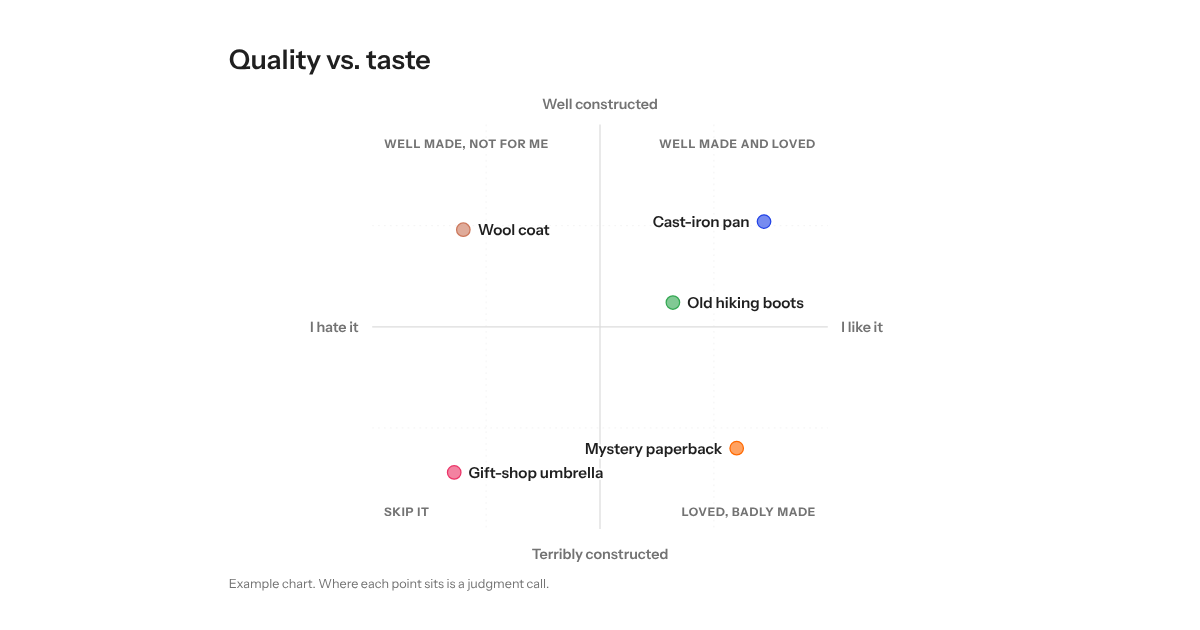
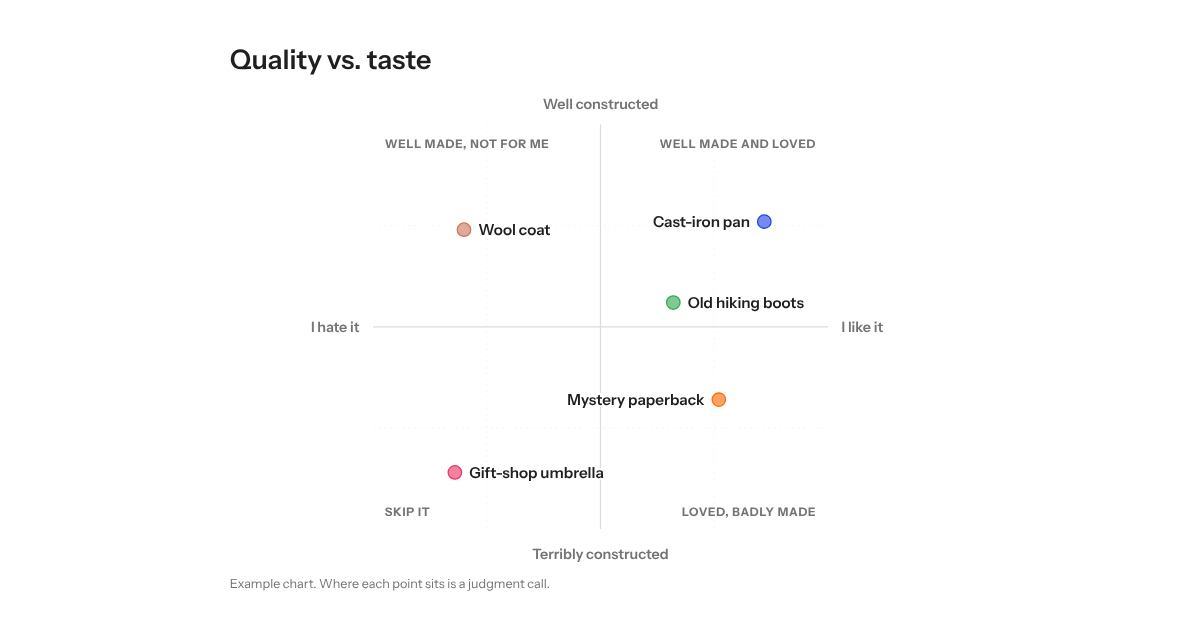
Fix corner name overlap, example label, SVG size, and phone swiping
- Measure letter-spacing when wrapping text, and size phone corner names to fit two per row
- Move the example's "Mystery paperback" so "Gift-shop umbrella" stays on one line
- Request the Instrument Sans weight range so the SVG embeds the font once
- Only the dot and a 20 px touch circle block scrolling; point names let the page scroll
- Touches that start on a name scroll the page and never move the point
- Add phone-width, touch swipe, near-dot click, and paste-setup checks to the smoke tests
- Update README phone instructions and short link; regenerate preview.png

Claude-Session: https://claude.ai/code/session_01JgeXKGiMyeo8k6YKJ5WxKM

diff --git a/tests/smoke.js b/tests/smoke.js
@@ -14,6 +14,8 @@ const PHONE = devices['iPhone 13'];
 const SETUP_X = { title: 'Which of our product bets are worth the next quarter of engineering time and money', note: 'Placement reflects the team workshop held in October; scores are rough, open to debate, and will be revisited after the next planning cycle ends.', axes: { top: 'High customer impact in every segment', bottom: 'Low customer impact', left: 'Hard to build well', right: 'Easy to build well, fast' }, quads: { tl: 'Big bets', tr: 'Quick wins', bl: 'Money pits', br: 'Fill-ins' }, items: [{ name: 'Self-serve onboarding flow', x: 0.73, y: 0.7 }, { name: 'Usage-based billing', x: 0.3, y: 0.3 }] };
 const SETUP_Y = { title: 'Close points', note: '', axes: { top: 'High', bottom: 'Low', left: 'Left', right: 'Right' }, quads: { tl: 'Top left', tr: 'Top right', bl: 'Bottom left', br: 'Bottom right' }, items: [{ name: 'Alpha product line', x: 0.40, y: 0.60 }, { name: 'Beta product line', x: 0.42, y: 0.62 }, { name: 'Gamma', x: 0.43, y: 0.58 }, { name: 'Near the corner', x: 0.05, y: 0.95 }, { name: 'Right edge', x: 0.98, y: 0.5 }] };
 
+const CLOSE_POINTS = '{"title":"Close points","note":"","axes":{"top":"High","bottom":"Low","left":"Left","right":"Right"},"quads":{"tl":"Top left","tr":"Top right","bl":"Bottom left","br":"Bottom right"},"items":[{"name":"Alpha product line","x":0.40,"y":0.60},{"name":"Beta product line","x":0.42,"y":0.62},{"name":"Gamma","x":0.43,"y":0.58}]}';
+
 /* ---------- helpers ---------- */
 
 // Opens the app in a fresh context and waits for the page to settle.
@@ -237,13 +239,15 @@ const checks = [
     return { ok: d.png && d.w === 1920 && d.h === 1400, detail: JSON.stringify(d) };
   }],
 
-  ['SVG download embeds the font', async b => {
+  ['SVG download embeds the font once and is under 90 KB', async b => {
     if (!(await fontsReachable())) return { skip: 'fonts.googleapis.com is not reachable' };
     const c = await open(b, DESK);
     const [dl] = await Promise.all([c.page.waitForEvent('download'), c.page.click('#dl-svg')]);
-    const svg = fs.readFileSync(await dl.path(), 'utf8');
+    const file = await dl.path();
+    const svg = fs.readFileSync(file, 'utf8');
+    const kb = fs.statSync(file).size / 1024;
     await c.context.close();
-    return { ok: svg.includes('@font-face'), detail: '' };
+    return { ok: svg.includes('@font-face') && svg.includes('base64,') && kb < 90, detail: `${kb.toFixed(1)} KB, @font-face ${svg.includes('@font-face')}, base64 ${svg.includes('base64,')}` };
   }],
 
   ['phone: no sideways scroll, name inputs at least 250 px wide', async b => {
@@ -268,6 +272,95 @@ const checks = [
     const y1 = await scrollY(c.page), n1 = await rowCount(c.page);
     await c.context.close();
     return { ok: y1 - y0 > 50 && n1 === n0, detail: `scrollY ${y0} -> ${y1}, rows ${n0} -> ${n1}` };
+  }],
+
+  ['phones 320, 360, 390, 430: no overlaps, no chopped words, every name on one line', async b => {
+    const bad = [];
+    for (const W of [320, 360, 390, 430]) {
+      const c = await open(b, { viewport: { width: W, height: 800 }, isMobile: true, hasTouch: true, deviceScaleFactor: 1 });
+      const p = await textProblems(c.page, true);
+      const w = await choppedWords(c.page);
+      const multi = await c.page.$$eval('#chart svg g.pt', gs => gs.filter(g => g.querySelectorAll('text tspan').length !== 1).map(g => g.getAttribute('aria-label')));
+      await c.context.close();
+      for (const x of [...p, ...w, ...multi.map(n => 'name wraps: ' + n)]) bad.push(`${W} px: ${x}`);
+    }
+    return { ok: bad.length === 0, detail: bad.join(' | ') };
+  }],
+
+  ['iPhone 13: swipe that starts on a point name scrolls the page and moves no point', async b => {
+    const c = await open(b, PHONE);
+    await centerChart(c.page);
+    const pick = await c.page.evaluate(() => {
+      const g = document.querySelector('#chart g.pt');
+      const r = g.querySelector('text').getBoundingClientRect();
+      return { id: g.dataset.id, x: r.left + r.width / 2, y: r.top + r.height / 2, label: g.getAttribute('aria-label') };
+    });
+    const cdp = await c.context.newCDPSession(c.page);
+    const y0 = await scrollY(c.page);
+    await cdp.send('Input.dispatchTouchEvent', { type: 'touchStart', touchPoints: [{ x: pick.x, y: pick.y }] });
+    for (let i = 1; i <= 10; i++) await cdp.send('Input.dispatchTouchEvent', { type: 'touchMove', touchPoints: [{ x: pick.x, y: pick.y - 25 * i }] });
+    await cdp.send('Input.dispatchTouchEvent', { type: 'touchEnd', touchPoints: [] });
+    await c.page.waitForTimeout(400);
+    const y1 = await scrollY(c.page);
+    const after = await c.page.evaluate(id => document.querySelector(`#chart g.pt[data-id="${id}"]`).getAttribute('aria-label'), pick.id);
+    await c.context.close();
+    return { ok: y1 - y0 > 50 && after === pick.label, detail: `scrollY ${y0} -> ${y1}, label "${pick.label}" -> "${after}"` };
+  }],
+
+  ['iPhone 13: swipe that starts on a dot moves its Across value and keeps the page still', async b => {
+    const c = await open(b, PHONE);
+    await centerChart(c.page);
+    const pick = await c.page.evaluate(() => {
+      const d = document.querySelector('#chart circle.dot');
+      const r = d.getBoundingClientRect();
+      return { id: d.closest('g.pt').dataset.id, x: r.left + r.width / 2, y: r.top + r.height / 2, label: d.closest('g.pt').getAttribute('aria-label') };
+    });
+    const across = s => (s.match(/([\d.]+) across/) || [])[1];
+    const cdp = await c.context.newCDPSession(c.page);
+    const y0 = await scrollY(c.page);
+    await cdp.send('Input.dispatchTouchEvent', { type: 'touchStart', touchPoints: [{ x: pick.x, y: pick.y }] });
+    for (let i = 1; i <= 10; i++) await cdp.send('Input.dispatchTouchEvent', { type: 'touchMove', touchPoints: [{ x: pick.x - 6 * i, y: pick.y + 4 * i }] });
+    await cdp.send('Input.dispatchTouchEvent', { type: 'touchEnd', touchPoints: [] });
+    await c.page.waitForTimeout(400);
+    const y1 = await scrollY(c.page);
+    const after = await c.page.evaluate(id => document.querySelector(`#chart g.pt[data-id="${id}"]`).getAttribute('aria-label'), pick.id);
+    await c.context.close();
+    return { ok: across(after) !== across(pick.label) && Math.abs(y1 - y0) <= 2, detail: `across ${across(pick.label)} -> ${across(after)}, scrollY ${y0} -> ${y1}` };
+  }],
+
+  ['desktop: a click about 10 px outside a dot still adds a point', async b => {
+    const c = await open(b, DESK);
+    const spot = await c.page.evaluate(() => {
+      const svg = document.querySelector('#chart svg');
+      const k = svg.getBoundingClientRect().width / svg.viewBox.baseVal.width;   // screen px per chart unit
+      for (const d of document.querySelectorAll('#chart svg circle.dot')) {
+        const r = d.getBoundingClientRect();
+        const cx = r.left + r.width / 2, cy = r.top + r.height / 2;
+        const rad = 8 * k + 10;   // 10 px outside the dot's edge
+        for (let a = 0; a < 360; a += 15) {
+          const x = cx + rad * Math.cos(a * Math.PI / 180), y = cy + rad * Math.sin(a * Math.PI / 180);
+          const el = document.elementFromPoint(x, y);
+          if (el && (el.tagName === 'rect' || el.tagName === 'line') && el.closest('#chart svg')) return { x, y };
+        }
+      }
+      return null;
+    });
+    if (!spot) { await c.context.close(); return { ok: false, detail: 'no empty spot 10 px from a dot' }; }
+    const n0 = await rowCount(c.page);
+    await c.page.mouse.click(spot.x, spot.y);
+    await c.page.waitForTimeout(200);
+    const n1 = await rowCount(c.page);
+    await c.context.close();
+    return { ok: n1 === n0 + 1, detail: `rows ${n0} -> ${n1}` };
+  }],
+
+  ['setup "Close points" from the paste box renders with no errors', async b => {
+    const c = await open(b, DESK);
+    await loadSetup(c.page, CLOSE_POINTS);
+    const n = await rowCount(c.page);
+    const p = await textProblems(c.page, true);
+    await c.context.close();
+    return { ok: c.errors.length === 0 && n === 3 && p.length === 0, detail: [`rows ${n}`, ...c.errors, ...p].join(' | ') };
   }]
 ];
 

diff --git a/Quadrant_Chart_Builder.html b/Quadrant_Chart_Builder.html
@@ -59,7 +59,11 @@
   .chart{overflow-x:auto;-webkit-overflow-scrolling:touch}
   .chart svg{display:block;width:100%;height:auto;min-width:640px;cursor:crosshair;touch-action:pan-y pinch-zoom;user-select:none;-webkit-user-select:none}
   .chart.phone svg{min-width:0}
-  .chart svg g.pt{cursor:grab;outline:none;touch-action:none}
+  .chart svg g.pt{cursor:grab;outline:none}
+  /* only the dot and its touch circle stop scrolling; the name labels let the page scroll */
+  .chart svg .hit,.chart svg .dot{touch-action:none}
+  .chart svg .hit{pointer-events:none}
+  @media (pointer:coarse){.chart svg .hit{pointer-events:auto}}
   .chart svg g.pt:active{cursor:grabbing}
   .chart svg .dot{fill-opacity:.62;transition:fill-opacity .15s}
   .chart svg g.pt:hover .dot{fill-opacity:.88}
@@ -276,7 +280,7 @@
       { name: 'Cast-iron pan', x: 0.86, y: 0.76 },
       { name: 'Wool coat', x: 0.2, y: 0.74 },
       { name: 'Old hiking boots', x: 0.66, y: 0.56 },
-      { name: 'Mystery paperback', x: 0.8, y: 0.2 },
+      { name: 'Mystery paperback', x: 0.76, y: 0.32 },
       { name: 'Gift-shop umbrella', x: 0.18, y: 0.14 }
     ]
   };
@@ -322,15 +326,16 @@
     return w;
   };
   const wrapCache = new Map();
-  function wrap(str, maxW, size, weight, family) {
-    const key = [str, maxW, size, weight, family].join('|');
+  function wrap(str, maxW, size, weight, family, ls = 0) {
+    const key = [str, maxW, size, weight, family, ls].join('|');
     if (wrapCache.has(key)) return wrapCache.get(key);
     const words = String(str ?? '').replace(/\s+/g, ' ').trim().split(' ').filter(Boolean);
     let lines;
     if (!words.length) {
       lines = [''];
     } else {
-      const fits = s => textW(s, size, weight, family) <= maxW;
+      // letter-spacing adds ls px after each letter, so it counts toward the width
+      const fits = s => textW(s, size, weight, family) + ls * s.length <= maxW;
       // a single word wider than the box is broken into pieces that fit
       const pieces = [];
       for (const w of words) {
@@ -497,12 +502,12 @@
 
     /* corner names */
     const corner = (val, ph) => up(shown(val, ph));
-    const Q = phone ? { size: PHONE_T.corner, ls: PHONE_T.cornerLS, w: g.half, d: 12, up: 28, down: 14 } : { size: 14, ls: 0.9, w: 260, d: 14, up: 28, down: 16 };
+    const Q = phone ? { size: PHONE_T.corner, ls: PHONE_T.cornerLS, w: Math.floor((P.x1 - P.x0 - 36) / 2), d: 12, up: 28, down: 14 } : { size: 14, ls: 0.9, w: 250, d: 14, up: 28, down: 16 };
     const QN = { size: Q.size, weight: 700, fill: C.muted, ls: Q.ls };
-    add(put(wrap(corner(s.quads.tl, 'Corner label'), Q.w, Q.size, 700, SANS), P.x0 + Q.d, P.y0 + Q.up, { ...QN, fill: s.quads.tl ? C.muted : C.faint, anchor: 'start', ...ed('f-tl') }));
-    add(put(wrap(corner(s.quads.tr, 'Corner label'), Q.w, Q.size, 700, SANS), P.x1 - Q.d, P.y0 + Q.up, { ...QN, fill: s.quads.tr ? C.muted : C.faint, anchor: 'end', ...ed('f-tr') }));
-    add(put(wrap(corner(s.quads.bl, 'Corner label'), Q.w, Q.size, 700, SANS), P.x0 + Q.d, P.y1 - Q.down, { ...QN, fill: s.quads.bl ? C.muted : C.faint, anchor: 'start', v: 'last', ...ed('f-bl') }));
-    add(put(wrap(corner(s.quads.br, 'Corner label'), Q.w, Q.size, 700, SANS), P.x1 - Q.d, P.y1 - Q.down, { ...QN, fill: s.quads.br ? C.muted : C.faint, anchor: 'end', v: 'last', ...ed('f-br') }));
+    add(put(wrap(corner(s.quads.tl, 'Corner label'), Q.w, Q.size, 700, SANS, Q.ls), P.x0 + Q.d, P.y0 + Q.up, { ...QN, fill: s.quads.tl ? C.muted : C.faint, anchor: 'start', ...ed('f-tl') }));
+    add(put(wrap(corner(s.quads.tr, 'Corner label'), Q.w, Q.size, 700, SANS, Q.ls), P.x1 - Q.d, P.y0 + Q.up, { ...QN, fill: s.quads.tr ? C.muted : C.faint, anchor: 'end', ...ed('f-tr') }));
+    add(put(wrap(corner(s.quads.bl, 'Corner label'), Q.w, Q.size, 700, SANS, Q.ls), P.x0 + Q.d, P.y1 - Q.down, { ...QN, fill: s.quads.bl ? C.muted : C.faint, anchor: 'start', v: 'last', ...ed('f-bl') }));
+    add(put(wrap(corner(s.quads.br, 'Corner label'), Q.w, Q.size, 700, SANS, Q.ls), P.x1 - Q.d, P.y1 - Q.down, { ...QN, fill: s.quads.br ? C.muted : C.faint, anchor: 'end', v: 'last', ...ed('f-br') }));
 
     /* footnote. It is fixed text, so it is drawn before the points and its box is known when they are placed. */
     const NS = phone ? PHONE_T.note : 15;
@@ -587,6 +592,7 @@
       } else {
         const sel = q.p.id === selectedId ? ' is-sel' : '';
         add(`<g class="pt${sel}" data-id="${q.p.id}" tabindex="0" role="button" aria-label="${esc(q.name)}, ${pct(q.p.x)} across and ${pct(q.p.y)} up. Arrow keys move it.">`);
+        add(`<circle class="hit" cx="${q.cx}" cy="${q.cy}" r="20" fill="transparent"/>`);
         add(`<circle class="halo" cx="${q.cx}" cy="${q.cy}" r="13" fill="none" stroke="${C.accent}" stroke-width="2"/>`);
       }
       add(`<circle class="dot" cx="${q.cx}" cy="${q.cy}" r="8" fill="${q.p.color}" fill-opacity="0.62" stroke="${q.p.color}" stroke-width="1.5"/>`);
@@ -846,7 +852,9 @@
     }
     lastKey = key;
     lastKeyAt = now;
-    drag = { id, label: !!label, pid: e.pointerId, x0: e.clientX, y0: e.clientY, moved: false, start };
+    // a touch that starts on a name only scrolls: it never moves the point (a dot or its touch circle does)
+    const touchName = e.pointerType === 'touch' && !e.target.closest('.hit, .dot');
+    drag = { id, label: !!label, pid: e.pointerId, x0: e.clientX, y0: e.clientY, moved: false, start, touchName };
     if (id) selectPoint(id);
     // no preventDefault and no pointer capture here: the normal focus change is what closes an open rename box,
     // and capture is only needed once a drag really starts (see pointermove)
@@ -858,7 +866,7 @@
     if (!drag.moved) chartBox.setPointerCapture(e.pointerId);   // keep getting moves outside the chart
     const first = !drag.moved;
     drag.moved = true;
-    if (!drag.id) return;
+    if (!drag.id || drag.touchName) return;
     if (first) remember();   // one undo step for the whole drag, recorded before the point moves
     const pt = svgPoint(e);
     const p = pt && state.items.find(i => i.id === drag.id);
@@ -885,8 +893,9 @@
     lastKey = null;
     if (d.moved && d.id) changed();
   });
-  /* Safari may not apply touch-action inside an SVG, so a touch that starts on a point is stopped here */
-  chartBox.addEventListener('touchstart', e => { if (e.target.closest && e.target.closest('g.pt')) e.preventDefault(); }, { passive: false });
+  /* Safari may not apply touch-action inside an SVG, so a touch that starts on a point's dot or its touch circle is stopped here.
+     A touch on a point's name is left alone, so the page can scroll. */
+  chartBox.addEventListener('touchstart', e => { if (e.target.closest && e.target.closest('.hit, .dot')) e.preventDefault(); }, { passive: false });
 
   /* ---------- chart: keyboard (focus a point, arrows move it) ---------- */
   chartBox.addEventListener('keydown', e => {
@@ -977,7 +986,7 @@
 
   /* ---------- font for exports ----------
      An image cannot load web fonts, so PNG and SVG downloads carry Instrument Sans inside them as data URLs. */
-  const FONT_CSS_URL = 'https://fonts.googleapis.com/css2?family=Instrument+Sans:wght@400;600;700&display=swap';
+  const FONT_CSS_URL = 'https://fonts.googleapis.com/css2?family=Instrument+Sans:wght@400..700&display=swap';
   let fontCSSPromise = null;
 
   /* gives up after ms, so an export never waits forever for the font */

diff --git a/README.md b/README.md
@@ -19,7 +19,7 @@ Drafts save in this browser only. Save a project file to keep your work.
 
 ## Phones
 
-On narrow screens the chart stacks its labels above and below the plot, so the text stays readable. Swipe on an empty part of the chart to scroll the page. A finger that starts on a point drags it.
+On narrow screens the chart stacks its labels above and below the plot, so the text stays readable. Swipe on the chart to scroll the page. To move a point, start your drag on its dot.
 
 ## Files
 
@@ -37,6 +37,6 @@ On narrow screens the chart stacks its labels above and below the plot, so the t
 
 ## Live site
 
-https://satejp10.github.io/Quadrant-Chart-Builder/Quadrant_Chart_Builder.html
+https://satejp10.github.io/Quadrant-Chart-Builder/
 
-GitHub Pages serves the `main` branch, root folder. The short link above opens the app.
+GitHub Pages serves the `main` branch, root folder.
